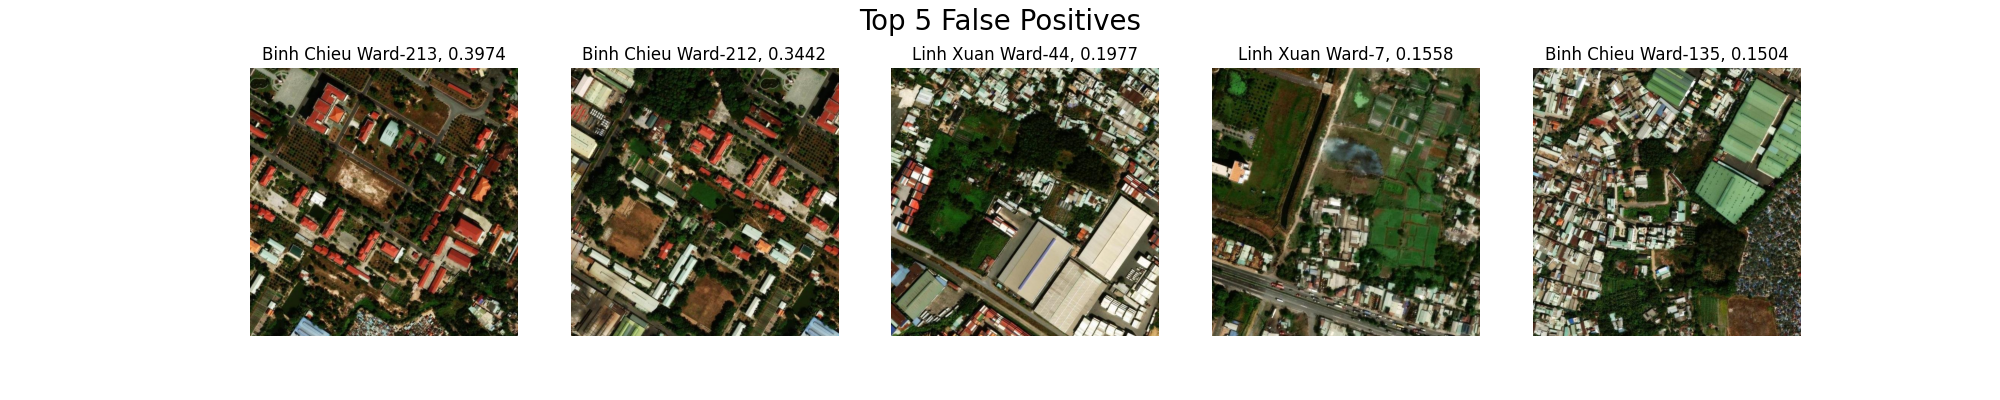
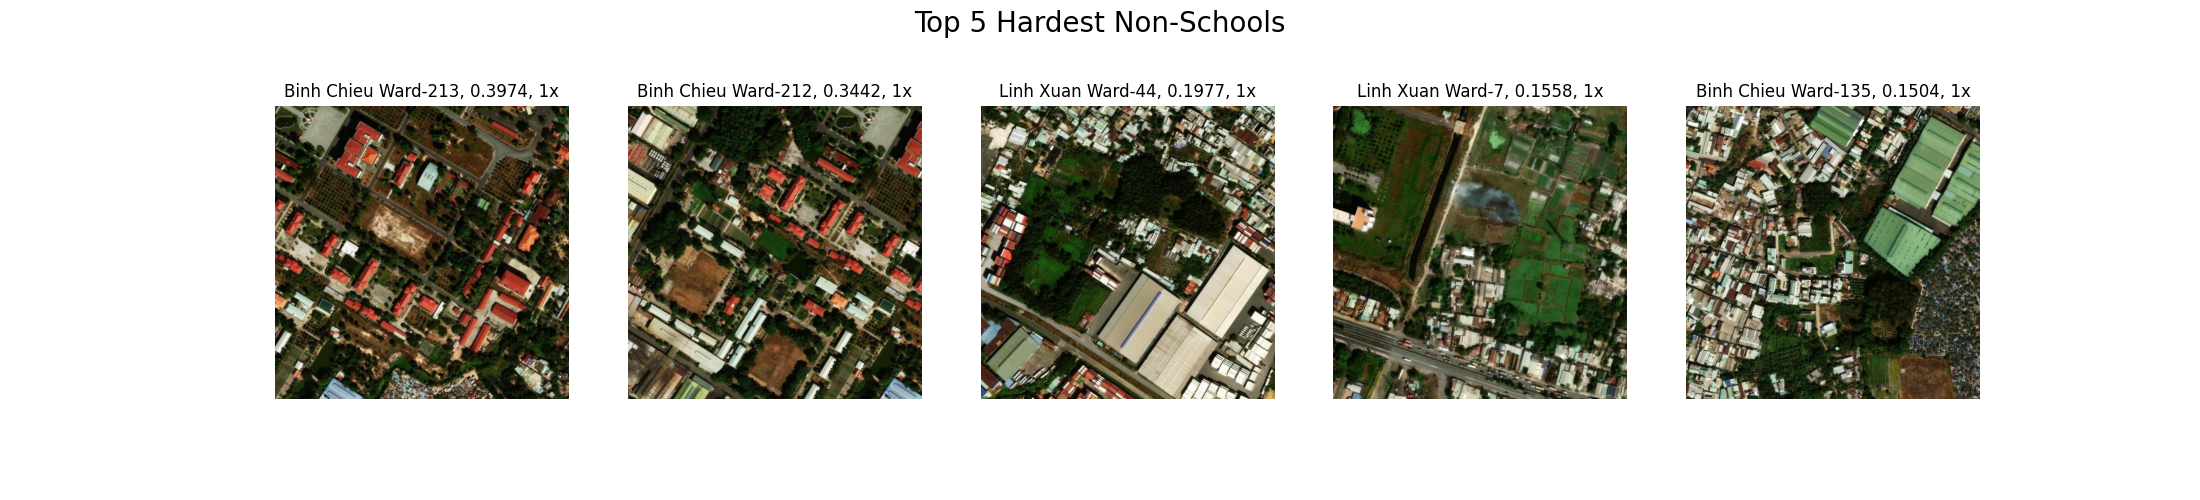
get unique hardest examples, rerun

Changed region(s): [[0.124, 0.12, 0.899, 0.84], [0.403, 0.0, 0.589, 0.09]]

diff --git a/src/local_scripts_and_other/find_best_f1/plot_top_fp_hardest.py b/src/local_scripts_and_other/find_best_f1/plot_top_fp_hardest.py
@@ -11,8 +11,8 @@ if __name__ == '__main__':
     dest_dir = '/mnt/sdb/agorup/school_mapping/satellite_images/inference_exhaustive_overlap/large'
     f = "/mnt/sdb/agorup/school_mapping/inference_data/exhaustive/inference_overlap_filtered_ghsl.csv"
 
-    top_n_fp = [('Binh Chieu Ward-213.jpeg', 0.3973814286291599), ('Binh Chieu Ward-212.jpeg', 0.3441606536507606), ('Linh Xuan Ward-44.jpeg', 0.1976517308503389), ('Linh Xuan Ward-7.jpeg', 0.155828493181616), ('Binh Chieu Ward-135.jpeg', 0.1504218745976686)]
-    top_n_hardest = [('Hiep Binh Phuoc Ward-117.jpeg', 0.0021165754296816), ('Hiep Binh Phuoc Ward-117.jpeg', 0.0021165754296816), ('Hiep Binh Phuoc Ward-117.jpeg', 0.0021165754296816), ('Hiep Binh Phuoc Ward-6.jpeg', 0.0023867647687438), ('Hiep Binh Phuoc Ward-57.jpeg', 0.0025978779303841)]
+    top_n_fp = [('Binh Chieu Ward-213.jpeg', 0.3973814286291599, 1), ('Binh Chieu Ward-212.jpeg', 0.3441606536507606, 1), ('Linh Xuan Ward-44.jpeg', 0.1976517308503389, 1), ('Linh Xuan Ward-7.jpeg', 0.155828493181616, 1), ('Binh Chieu Ward-135.jpeg', 0.1504218745976686, 1)]
+    top_n_hardest = [('Hiep Binh Phuoc Ward-117.jpeg', 0.0021165754296816, 3), ('Hiep Binh Phuoc Ward-6.jpeg', 0.0023867647687438, 1), ('Hiep Binh Phuoc Ward-57.jpeg', 0.0025978779303841, 2), ('Hiep Binh Phuoc Ward-249.jpeg', 0.0026823107909876, 2), ('Hiep Binh Phuoc Ward-120.jpeg', 0.0026917629875242, 1)]
 
     df = pd.read_csv(f)
     images = []
@@ -29,31 +29,31 @@ if __name__ == '__main__':
 
     df_images = pd.DataFrame(images)
 
-    plt.figure(figsize=(20,4))
-    plt.suptitle(f'Top {len(top_n_fp)} False Positives', fontsize=20)
+    plt.figure(figsize=(22,5))
+    plt.suptitle(f'Top {len(top_n_fp)} Hardest Non-Schools', fontsize=20)
     
-    for i, (fp_image, prob) in enumerate(top_n_fp):
+    for i, (fp_image, prob, count) in enumerate(top_n_fp):
         row = df_images[df_images['image'] == fp_image].iloc[0]
         path = row['filepath']
         img = Image.open(path)
 
         plt.subplot(int(len(top_n_fp) / 5),5,i + 1)
-        plt.title(f'{fp_image.split('.')[0]}, {prob:.4f}')
+        plt.title(f'{fp_image.split('.')[0]}, {prob:.4f}, {count}x')
         plt.imshow(img)
         plt.axis('off')
 
     plt.savefig(f'./top_{len(top_n_fp)}_fp.png')
 
-    plt.figure(figsize=(20,4))
+    plt.figure(figsize=(22,5))
     plt.suptitle(f'Top {len(top_n_hardest)} Hardest Schools', fontsize=20)
     
-    for i, (hardest_image, prob) in enumerate(top_n_hardest):
+    for i, (hardest_image, prob, count) in enumerate(top_n_hardest):
         row = df_images[df_images['image'] == hardest_image].iloc[0]
         path = row['filepath']
         img = Image.open(path)
 
         plt.subplot(int(len(top_n_hardest) / 5),5,i + 1)
-        plt.title(f'{hardest_image.split('.')[0]}, {prob:.4f}')
+        plt.title(f'{hardest_image.split('.')[0]}, {prob:.4f}, {count}x')
         plt.imshow(img)
         plt.axis('off')
 

diff --git a/src/local_scripts_and_other/find_best_f1/find_best_f1.py b/src/local_scripts_and_other/find_best_f1/find_best_f1.py
@@ -51,7 +51,8 @@ def calculate_metrics(df_preds, df_schools, thresh, top_n_fp=10, top_n_hardest=1
     f1 = (2 * precision * recall) / (precision + recall) if (precision + recall > 0) else 0
 
     # Get top N false positives
-    top_n_false_positives = sorted(false_positives, key=lambda x: x[1], reverse=True)[:top_n_fp]
+    top_n_false_positives_unique = sorted(set(false_positives), key=lambda x: x[1], reverse=True)[:top_n_fp]
+    top_n_false_positives = [(img, pred, false_positives.count((img, pred))) for (img, pred) in top_n_false_positives_unique]
 
     # Initialize hardest schools list
     hardest_schools = []
@@ -74,7 +75,8 @@ def calculate_metrics(df_preds, df_schools, thresh, top_n_fp=10, top_n_hardest=1
             hardest_schools.append((max_pred_row['image'], max_pred_row['pred']))
 
     # Get top N hardest schools
-    top_n_hardest_schools = sorted(hardest_schools, key=lambda x: x[1])[:top_n_hardest]
+    top_n_hardest_schools_unique = sorted(set(hardest_schools), key=lambda x: x[1])[:top_n_hardest]
+    top_n_hardest_schools = [(img, pred, hardest_schools.count((img, pred))) for (img, pred) in top_n_hardest_schools_unique]
         
     if verbose:
         print(f'Precision: {precision * 100:.2f}%')
